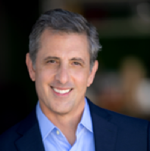
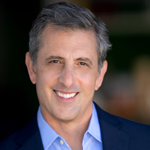
new rocco headshot

diff --git a/docs/css/page.css b/docs/css/page.css
@@ -2,4 +2,4 @@
 
 /*! tailwindcss v2.2.19 | MIT License | https://tailwindcss.com*/
 
-/*! modern-normalize v1.1.0 | MIT License | https://github.com/sindresorhus/modern-normalize */html{line-height:1.15;-moz-tab-size:4;-o-tab-size:4;tab-size:4;-webkit-text-size-adjust:100%}body{font-family:system-ui,-apple-system,Segoe UI,Roboto,Helvetica,Arial,sans-serif,Apple Color Emoji,Segoe UI Emoji;margin:0}hr{color:inherit;height:0}abbr[title]{-webkit-text-decoration:underline dotted;text-decoration:underline dotted}b,strong{font-weight:bolder}code,kbd,pre,samp{font-family:ui-monospace,SFMono-Regular,Consolas,Liberation Mono,Menlo,monospace;font-size:1em}small{font-size:80%}sub,sup{font-size:75%;line-height:0;position:relative;vertical-align:baseline}sub{bottom:-.25em}sup{top:-.5em}table{border-color:inherit;text-indent:0}button,input,optgroup,select,textarea{font-family:inherit;font-size:100%;line-height:1.15;margin:0}button,select{text-transform:none}[type=button],[type=reset],[type=submit],button{-webkit-appearance:button}::-moz-focus-inner{border-style:none;padding:0}:-moz-focusring{outline:1px dotted ButtonText}:-moz-ui-invalid{box-shadow:none}legend{padding:0}progress{vertical-align:baseline}::-webkit-inner-spin-button,::-webkit-outer-spin-button{height:auto}[type=search]{-webkit-appearance:textfield;outline-offset:-2px}::-webkit-search-decoration{-webkit-appearance:none}::-webkit-file-upload-button{-webkit-appearance:button;font:inherit}summary{display:list-item}blockquote,dd,dl,figure,h1,h2,h3,h4,h5,h6,hr,p,pre{margin:0}button{background-color:transparent;background-image:none}fieldset,ol,ul{margin:0;padding:0}ol,ul{list-style:none}html{font-family:ui-sans-serif,system-ui,-apple-system,BlinkMacSystemFont,Segoe UI,Roboto,Helvetica Neue,Arial,Noto Sans,sans-serif,Apple Color Emoji,Segoe UI Emoji,Segoe UI Symbol,Noto Color Emoji;line-height:1.5}body{font-family:inherit;line-height:inherit}*,:after,:before{border:0 solid;box-sizing:border-box}hr{border-top-width:1px}img{border-style:solid}textarea{resize:vertical}input::-moz-placeholder,textarea::-moz-placeholder{color:#9ca3af;opacity:1}input::placeholder,textarea::placeholder{color:#9ca3af;opacity:1}[role=button],button{cursor:pointer}:-moz-focusring{outline:auto}table{border-collapse:collapse}h1,h2,h3,h4,h5,h6{font-size:inherit;font-weight:inherit}a{color:inherit;text-decoration:inherit}button,input,optgroup,select,textarea{color:inherit;line-height:inherit;padding:0}code,kbd,pre,samp{font-family:ui-monospace,SFMono-Regular,Menlo,Monaco,Consolas,Liberation Mono,Courier New,monospace}audio,canvas,embed,iframe,img,object,svg,video{display:block;vertical-align:middle}img,video{height:auto;max-width:100%}[hidden]{display:none}*,:after,:before{--tw-border-opacity:1;border-color:rgba(229,231,235,var(--tw-border-opacity));--tw-ring-offset-shadow:0 0 #0000;--tw-ring-shadow:0 0 #0000;--tw-shadow:0 0 #0000}.container{width:100%}@media (min-width:640px){.container{max-width:640px}}@media (min-width:768px){.container{max-width:768px}}@media (min-width:1024px){.container{max-width:1024px}}@media (min-width:1280px){.container{max-width:1280px}}@media (min-width:1536px){.container{max-width:1536px}}.mx-auto{margin-left:auto;margin-right:auto}.my-12{margin-bottom:3rem;margin-top:3rem}.my-6{margin-bottom:1.5rem;margin-top:1.5rem}.my-20{margin-bottom:5rem;margin-top:5rem}.mb-4{margin-bottom:1rem}.mb-6{margin-bottom:1.5rem}.mb-2{margin-bottom:.5rem}.ml-2{margin-left:.5rem}.ml-auto{margin-left:auto}.block{display:block}.flex{display:flex}.hidden{display:none}.h-px{height:1px}.h-12{height:3rem}.h-full{height:100%}.min-h-screen{min-height:100vh}.w-full{width:100%}.w-1\/2{width:50%}.w-1\/3{width:33.333333%}.w-16{width:4rem}.w-2\/3{width:66.666667%}.w-\[49\%\]{width:49%}.max-w-full{max-width:100%}.max-w-lg{max-width:32rem}.flex-shrink-0{flex-shrink:0}.list-none{list-style-type:none}.appearance-none{-webkit-appearance:none;-moz-appearance:none;appearance:none}.flex-row{flex-direction:row}.flex-col{flex-direction:column}.flex-wrap{flex-wrap:wrap}.items-center{align-items:center}.items-stretch{align-items:stretch}.justify-center{justify-content:center}.justify-between{justify-content:space-between}.space-y-2>:not([hidden])~:not([hidden]){--tw-space-y-reverse:0;margin-bottom:calc(.5rem*var(--tw-space-y-reverse));margin-top:calc(.5rem*(1 - var(--tw-space-y-reverse)))}.self-start{align-self:flex-start}.self-end{align-self:flex-end}.self-center{align-self:center}.rounded-full{border-radius:9999px}.border{border-width:1px}.border-b{border-bottom-width:1px}.border-thrivedark{--tw-border-opacity:1;border-color:rgba(1,109,114,var(--tw-border-opacity))}.border-transparent{border-color:transparent}.bg-thrivedark{--tw-bg-opacity:1;background-color:rgba(1,109,114,var(--tw-bg-opacity))}.bg-white{--tw-bg-opacity:1;background-color:rgba(255,255,255,var(--tw-bg-opacity))}.bg-purple-600{--tw-bg-opacity:1;background-color:rgba(124,58,237,var(--tw-bg-opacity))}.bg-gray-900{--tw-bg-opacity:1;background-color:rgba(17,24,39,var(--tw-bg-opacity))}.bg-gray-800{--tw-bg-opacity:1;background-color:rgba(31,41,55,var(--tw-bg-opacity))}.bg-gray-100{--tw-bg-opacity:1;background-color:rgba(243,244,246,var(--tw-bg-opacity))}.px-4{padding-left:1rem;padding-right:1rem}.py-16{padding-bottom:4rem;padding-top:4rem}.py-4{padding-bottom:1rem;padding-top:1rem}.px-8{padding-left:2rem;padding-right:2rem}.py-1{padding-bottom:.25rem;padding-top:.25rem}.py-2{padding-bottom:.5rem;padding-top:.5rem}.py-12{padding-bottom:3rem;padding-top:3rem}.py-6{padding-bottom:1.5rem;padding-top:1.5rem}.px-10{padding-left:2.5rem;padding-right:2.5rem}.px-3{padding-left:.75rem;padding-right:.75rem}.pr-0{padding-right:0}.pb-4{padding-bottom:1rem}.pb-12{padding-bottom:3rem}.pl-5{padding-left:1.25rem}.pt-16{padding-top:4rem}.text-center{text-align:center}.font-sans{font-family:ui-sans-serif,system-ui,-apple-system,BlinkMacSystemFont,Segoe UI,Roboto,Helvetica Neue,Arial,Noto Sans,sans-serif,Apple Color Emoji,Segoe UI Emoji,Segoe UI Symbol,Noto Color Emoji}.text-lg{font-size:1.125rem;line-height:1.75rem}.text-4xl{font-size:2.25rem;line-height:2.5rem}.text-xl{font-size:1.25rem;line-height:1.75rem}.text-2xl{font-size:1.5rem;line-height:2rem}.font-bold{font-weight:700}.font-light{font-weight:300}.uppercase{text-transform:uppercase}.tracking-wide{letter-spacing:.025em}.tracking-wider{letter-spacing:.05em}.tracking-widest{letter-spacing:.1em}.text-gray-800{--tw-text-opacity:1;color:rgba(31,41,55,var(--tw-text-opacity))}.text-thrivedark{--tw-text-opacity:1;color:rgba(1,109,114,var(--tw-text-opacity))}.text-white{--tw-text-opacity:1;color:rgba(255,255,255,var(--tw-text-opacity))}.text-gray-100{--tw-text-opacity:1;color:rgba(243,244,246,var(--tw-text-opacity))}.text-gray-50{--tw-text-opacity:1;color:rgba(249,250,251,var(--tw-text-opacity))}.text-gray-300{--tw-text-opacity:1;color:rgba(209,213,219,var(--tw-text-opacity))}.text-blue-200{--tw-text-opacity:1;color:rgba(191,219,254,var(--tw-text-opacity))}.text-purple-600{--tw-text-opacity:1;color:rgba(124,58,237,var(--tw-text-opacity))}.text-gray-200{--tw-text-opacity:1;color:rgba(229,231,235,var(--tw-text-opacity))}.text-gray-400{--tw-text-opacity:1;color:rgba(156,163,175,var(--tw-text-opacity))}.text-thrivelight{--tw-text-opacity:1;color:rgba(90,199,184,var(--tw-text-opacity))}.text-black{--tw-text-opacity:1;color:rgba(0,0,0,var(--tw-text-opacity))}.no-underline{text-decoration:none}.shadow{--tw-shadow:0 1px 3px 0 rgba(0,0,0,.1),0 1px 2px 0 rgba(0,0,0,.06)}.shadow,.shadow-md{box-shadow:var(--tw-ring-offset-shadow,0 0 #0000),var(--tw-ring-shadow,0 0 #0000),var(--tw-shadow)}.shadow-md{--tw-shadow:0 4px 6px -1px rgba(0,0,0,.1),0 2px 4px -1px rgba(0,0,0,.06)}.hover\:bg-thrivelight:hover{--tw-bg-opacity:1;background-color:rgba(90,199,184,var(--tw-bg-opacity))}.hover\:bg-gray-800:hover{--tw-bg-opacity:1;background-color:rgba(31,41,55,var(--tw-bg-opacity))}.hover\:bg-opacity-50:hover{--tw-bg-opacity:0.5}.hover\:text-thrivelight:hover{--tw-text-opacity:1;color:rgba(90,199,184,var(--tw-text-opacity))}.hover\:text-purple-600:hover{--tw-text-opacity:1;color:rgba(124,58,237,var(--tw-text-opacity))}.hover\:shadow-lg:hover{--tw-shadow:0 10px 15px -3px rgba(0,0,0,.1),0 4px 6px -2px rgba(0,0,0,.05);box-shadow:var(--tw-ring-offset-shadow,0 0 #0000),var(--tw-ring-shadow,0 0 #0000),var(--tw-shadow)}.focus\:border-gray-400:focus{--tw-border-opacity:1;border-color:rgba(156,163,175,var(--tw-border-opacity))}.focus\:bg-gray-200:focus{--tw-bg-opacity:1;background-color:rgba(229,231,235,var(--tw-bg-opacity))}.focus\:text-gray-800:focus{--tw-text-opacity:1;color:rgba(31,41,55,var(--tw-text-opacity))}.focus\:outline-none:focus{outline:2px solid transparent;outline-offset:2px}@media (min-width:640px){.sm\:mx-0{margin-left:0;margin-right:0}.sm\:mx-auto{margin-left:auto;margin-right:auto}.sm\:flex{display:flex}.sm\:hidden{display:none}.sm\:h-auto{height:auto}.sm\:w-px{width:1px}.sm\:w-auto{width:auto}.sm\:w-2\/3{width:66.666667%}.sm\:w-1\/2{width:50%}.sm\:w-1\/3{width:33.333333%}.sm\:flex-none{flex:none}.sm\:flex-row{flex-direction:row}.sm\:justify-center{justify-content:center}.sm\:self-center{align-self:center}.sm\:bg-transparent{background-color:transparent}.sm\:px-0{padding-left:0;padding-right:0}.sm\:px-6{padding-left:1.5rem;padding-right:1.5rem}.sm\:py-0{padding-bottom:0;padding-top:0}.sm\:px-4{padding-left:1rem;padding-right:1rem}.sm\:py-1{padding-bottom:.25rem;padding-top:.25rem}.sm\:px-8{padding-left:2rem;padding-right:2rem}.sm\:py-12{padding-bottom:3rem;padding-top:3rem}.sm\:pr-8{padding-right:2rem}.sm\:pb-0{padding-bottom:0}.sm\:pr-4{padding-right:1rem}.sm\:text-left{text-align:left}.sm\:shadow-none{--tw-shadow:0 0 #0000;box-shadow:var(--tw-ring-offset-shadow,0 0 #0000),var(--tw-ring-shadow,0 0 #0000),var(--tw-shadow)}}@media (min-width:768px){.md\:w-5\/6{width:83.333333%}}@media (min-width:1280px){.xl\:w-1\/2{width:50%}.xl\:w-4\/5{width:80%}.xl\:w-1\/4{width:25%}.xl\:w-3\/4{width:75%}.xl\:w-2\/3{width:66.666667%}.xl\:w-1\/3{width:33.333333%}.xl\:pl-3{padding-left:.75rem}}
+/*! modern-normalize v1.1.0 | MIT License | https://github.com/sindresorhus/modern-normalize */html{line-height:1.15;-moz-tab-size:4;-o-tab-size:4;tab-size:4;-webkit-text-size-adjust:100%}body{font-family:system-ui,-apple-system,Segoe UI,Roboto,Helvetica,Arial,sans-serif,Apple Color Emoji,Segoe UI Emoji;margin:0}hr{color:inherit;height:0}abbr[title]{-webkit-text-decoration:underline dotted;text-decoration:underline dotted}b,strong{font-weight:bolder}code,kbd,pre,samp{font-family:ui-monospace,SFMono-Regular,Consolas,Liberation Mono,Menlo,monospace;font-size:1em}small{font-size:80%}sub,sup{font-size:75%;line-height:0;position:relative;vertical-align:baseline}sub{bottom:-.25em}sup{top:-.5em}table{border-color:inherit;text-indent:0}button,input,optgroup,select,textarea{font-family:inherit;font-size:100%;line-height:1.15;margin:0}button,select{text-transform:none}[type=button],[type=reset],[type=submit],button{-webkit-appearance:button}::-moz-focus-inner{border-style:none;padding:0}:-moz-focusring{outline:1px dotted ButtonText}:-moz-ui-invalid{box-shadow:none}legend{padding:0}progress{vertical-align:baseline}::-webkit-inner-spin-button,::-webkit-outer-spin-button{height:auto}[type=search]{-webkit-appearance:textfield;outline-offset:-2px}::-webkit-search-decoration{-webkit-appearance:none}::-webkit-file-upload-button{-webkit-appearance:button;font:inherit}summary{display:list-item}blockquote,dd,dl,figure,h1,h2,h3,h4,h5,h6,hr,p,pre{margin:0}button{background-color:transparent;background-image:none}fieldset,ol,ul{margin:0;padding:0}ol,ul{list-style:none}html{font-family:ui-sans-serif,system-ui,-apple-system,BlinkMacSystemFont,Segoe UI,Roboto,Helvetica Neue,Arial,Noto Sans,sans-serif,Apple Color Emoji,Segoe UI Emoji,Segoe UI Symbol,Noto Color Emoji;line-height:1.5}body{font-family:inherit;line-height:inherit}*,:after,:before{border:0 solid;box-sizing:border-box}hr{border-top-width:1px}img{border-style:solid}textarea{resize:vertical}input::-moz-placeholder,textarea::-moz-placeholder{color:#9ca3af;opacity:1}input::placeholder,textarea::placeholder{color:#9ca3af;opacity:1}[role=button],button{cursor:pointer}:-moz-focusring{outline:auto}table{border-collapse:collapse}h1,h2,h3,h4,h5,h6{font-size:inherit;font-weight:inherit}a{color:inherit;text-decoration:inherit}button,input,optgroup,select,textarea{color:inherit;line-height:inherit;padding:0}code,kbd,pre,samp{font-family:ui-monospace,SFMono-Regular,Menlo,Monaco,Consolas,Liberation Mono,Courier New,monospace}audio,canvas,embed,iframe,img,object,svg,video{display:block;vertical-align:middle}img,video{height:auto;max-width:100%}[hidden]{display:none}*,:after,:before{--tw-border-opacity:1;border-color:rgba(229,231,235,var(--tw-border-opacity));--tw-ring-offset-shadow:0 0 #0000;--tw-ring-shadow:0 0 #0000;--tw-shadow:0 0 #0000}.container{width:100%}@media (min-width:640px){.container{max-width:640px}}@media (min-width:768px){.container{max-width:768px}}@media (min-width:1024px){.container{max-width:1024px}}@media (min-width:1280px){.container{max-width:1280px}}@media (min-width:1536px){.container{max-width:1536px}}.relative{position:relative}.inset-0{bottom:0;left:0;right:0;top:0}.m-auto{margin:auto}.mx-auto{margin-left:auto;margin-right:auto}.my-12{margin-bottom:3rem;margin-top:3rem}.my-6{margin-bottom:1.5rem;margin-top:1.5rem}.my-20{margin-bottom:5rem;margin-top:5rem}.mb-4{margin-bottom:1rem}.mb-6{margin-bottom:1.5rem}.mb-2{margin-bottom:.5rem}.ml-2{margin-left:.5rem}.ml-auto{margin-left:auto}.block{display:block}.flex{display:flex}.hidden{display:none}.h-px{height:1px}.h-12{height:3rem}.h-full{height:100%}.h-screen{height:100vh}.min-h-screen{min-height:100vh}.w-full{width:100%}.w-1\/2{width:50%}.w-1\/3{width:33.333333%}.w-16{width:4rem}.w-2\/3{width:66.666667%}.w-\[49\%\]{width:49%}.max-w-full{max-width:100%}.max-w-lg{max-width:32rem}.flex-shrink-0{flex-shrink:0}.list-none{list-style-type:none}.appearance-none{-webkit-appearance:none;-moz-appearance:none;appearance:none}.flex-row{flex-direction:row}.flex-col{flex-direction:column}.flex-wrap{flex-wrap:wrap}.items-center{align-items:center}.items-stretch{align-items:stretch}.justify-start{justify-content:flex-start}.justify-center{justify-content:center}.justify-between{justify-content:space-between}.space-y-2>:not([hidden])~:not([hidden]){--tw-space-y-reverse:0;margin-bottom:calc(.5rem*var(--tw-space-y-reverse));margin-top:calc(.5rem*(1 - var(--tw-space-y-reverse)))}.self-start{align-self:flex-start}.self-end{align-self:flex-end}.self-center{align-self:center}.rounded-full{border-radius:9999px}.border{border-width:1px}.border-b{border-bottom-width:1px}.border-thrivedark{--tw-border-opacity:1;border-color:rgba(1,109,114,var(--tw-border-opacity))}.border-transparent{border-color:transparent}.bg-thrivedark{--tw-bg-opacity:1;background-color:rgba(1,109,114,var(--tw-bg-opacity))}.bg-white{--tw-bg-opacity:1;background-color:rgba(255,255,255,var(--tw-bg-opacity))}.bg-purple-600{--tw-bg-opacity:1;background-color:rgba(124,58,237,var(--tw-bg-opacity))}.bg-gray-900{--tw-bg-opacity:1;background-color:rgba(17,24,39,var(--tw-bg-opacity))}.bg-gray-800{--tw-bg-opacity:1;background-color:rgba(31,41,55,var(--tw-bg-opacity))}.bg-gray-100{--tw-bg-opacity:1;background-color:rgba(243,244,246,var(--tw-bg-opacity))}.px-4{padding-left:1rem;padding-right:1rem}.py-16{padding-bottom:4rem;padding-top:4rem}.py-4{padding-bottom:1rem;padding-top:1rem}.px-8{padding-left:2rem;padding-right:2rem}.py-1{padding-bottom:.25rem;padding-top:.25rem}.py-2{padding-bottom:.5rem;padding-top:.5rem}.py-12{padding-bottom:3rem;padding-top:3rem}.py-6{padding-bottom:1.5rem;padding-top:1.5rem}.px-10{padding-left:2.5rem;padding-right:2.5rem}.px-3{padding-left:.75rem;padding-right:.75rem}.pr-0{padding-right:0}.pb-4{padding-bottom:1rem}.pb-12{padding-bottom:3rem}.pl-5{padding-left:1.25rem}.pt-16{padding-top:4rem}.pt-12{padding-top:3rem}.text-center{text-align:center}.font-sans{font-family:ui-sans-serif,system-ui,-apple-system,BlinkMacSystemFont,Segoe UI,Roboto,Helvetica Neue,Arial,Noto Sans,sans-serif,Apple Color Emoji,Segoe UI Emoji,Segoe UI Symbol,Noto Color Emoji}.text-lg{font-size:1.125rem;line-height:1.75rem}.text-4xl{font-size:2.25rem;line-height:2.5rem}.text-xl{font-size:1.25rem;line-height:1.75rem}.text-2xl{font-size:1.5rem;line-height:2rem}.font-bold{font-weight:700}.font-light{font-weight:300}.uppercase{text-transform:uppercase}.tracking-wide{letter-spacing:.025em}.tracking-wider{letter-spacing:.05em}.tracking-widest{letter-spacing:.1em}.text-gray-800{--tw-text-opacity:1;color:rgba(31,41,55,var(--tw-text-opacity))}.text-thrivedark{--tw-text-opacity:1;color:rgba(1,109,114,var(--tw-text-opacity))}.text-white{--tw-text-opacity:1;color:rgba(255,255,255,var(--tw-text-opacity))}.text-gray-100{--tw-text-opacity:1;color:rgba(243,244,246,var(--tw-text-opacity))}.text-gray-50{--tw-text-opacity:1;color:rgba(249,250,251,var(--tw-text-opacity))}.text-gray-300{--tw-text-opacity:1;color:rgba(209,213,219,var(--tw-text-opacity))}.text-blue-200{--tw-text-opacity:1;color:rgba(191,219,254,var(--tw-text-opacity))}.text-purple-600{--tw-text-opacity:1;color:rgba(124,58,237,var(--tw-text-opacity))}.text-gray-200{--tw-text-opacity:1;color:rgba(229,231,235,var(--tw-text-opacity))}.text-gray-400{--tw-text-opacity:1;color:rgba(156,163,175,var(--tw-text-opacity))}.text-thrivelight{--tw-text-opacity:1;color:rgba(90,199,184,var(--tw-text-opacity))}.text-black{--tw-text-opacity:1;color:rgba(0,0,0,var(--tw-text-opacity))}.no-underline{text-decoration:none}.shadow{--tw-shadow:0 1px 3px 0 rgba(0,0,0,.1),0 1px 2px 0 rgba(0,0,0,.06)}.shadow,.shadow-md{box-shadow:var(--tw-ring-offset-shadow,0 0 #0000),var(--tw-ring-shadow,0 0 #0000),var(--tw-shadow)}.shadow-md{--tw-shadow:0 4px 6px -1px rgba(0,0,0,.1),0 2px 4px -1px rgba(0,0,0,.06)}.hover\:bg-thrivelight:hover{--tw-bg-opacity:1;background-color:rgba(90,199,184,var(--tw-bg-opacity))}.hover\:bg-gray-800:hover{--tw-bg-opacity:1;background-color:rgba(31,41,55,var(--tw-bg-opacity))}.hover\:bg-opacity-50:hover{--tw-bg-opacity:0.5}.hover\:text-thrivelight:hover{--tw-text-opacity:1;color:rgba(90,199,184,var(--tw-text-opacity))}.hover\:text-purple-600:hover{--tw-text-opacity:1;color:rgba(124,58,237,var(--tw-text-opacity))}.hover\:shadow-lg:hover{--tw-shadow:0 10px 15px -3px rgba(0,0,0,.1),0 4px 6px -2px rgba(0,0,0,.05);box-shadow:var(--tw-ring-offset-shadow,0 0 #0000),var(--tw-ring-shadow,0 0 #0000),var(--tw-shadow)}.focus\:border-gray-400:focus{--tw-border-opacity:1;border-color:rgba(156,163,175,var(--tw-border-opacity))}.focus\:bg-gray-200:focus{--tw-bg-opacity:1;background-color:rgba(229,231,235,var(--tw-bg-opacity))}.focus\:text-gray-800:focus{--tw-text-opacity:1;color:rgba(31,41,55,var(--tw-text-opacity))}.focus\:outline-none:focus{outline:2px solid transparent;outline-offset:2px}@media (min-width:640px){.sm\:mx-0{margin-left:0;margin-right:0}.sm\:mx-auto{margin-left:auto;margin-right:auto}.sm\:flex{display:flex}.sm\:hidden{display:none}.sm\:h-auto{height:auto}.sm\:w-px{width:1px}.sm\:w-auto{width:auto}.sm\:w-2\/3{width:66.666667%}.sm\:w-1\/2{width:50%}.sm\:w-1\/3{width:33.333333%}.sm\:flex-none{flex:none}.sm\:flex-row{flex-direction:row}.sm\:justify-center{justify-content:center}.sm\:self-center{align-self:center}.sm\:bg-transparent{background-color:transparent}.sm\:px-0{padding-left:0;padding-right:0}.sm\:px-6{padding-left:1.5rem;padding-right:1.5rem}.sm\:py-0{padding-bottom:0;padding-top:0}.sm\:px-4{padding-left:1rem;padding-right:1rem}.sm\:py-1{padding-bottom:.25rem;padding-top:.25rem}.sm\:px-8{padding-left:2rem;padding-right:2rem}.sm\:py-12{padding-bottom:3rem;padding-top:3rem}.sm\:pr-8{padding-right:2rem}.sm\:pb-0{padding-bottom:0}.sm\:pr-4{padding-right:1rem}.sm\:text-left{text-align:left}.sm\:shadow-none{--tw-shadow:0 0 #0000;box-shadow:var(--tw-ring-offset-shadow,0 0 #0000),var(--tw-ring-shadow,0 0 #0000),var(--tw-shadow)}}@media (min-width:768px){.md\:w-5\/6{width:83.333333%}}@media (min-width:1280px){.xl\:w-1\/2{width:50%}.xl\:w-4\/5{width:80%}.xl\:w-1\/4{width:25%}.xl\:w-3\/4{width:75%}.xl\:w-2\/3{width:66.666667%}.xl\:w-1\/3{width:33.333333%}.xl\:pl-3{padding-left:.75rem}}
